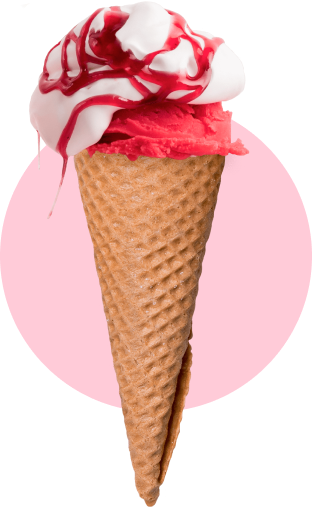
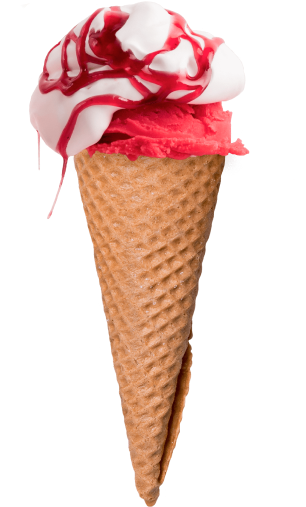
+

diff --git a/styles/style.css b/styles/style.css
@@ -220,8 +220,20 @@ body {
 }
 
 .card-img {
-  opacity: 0.4;
+  background-image: url("../images/png/Подложка.png");
+  background-repeat: no-repeat;
+  background-position: center;
+  border-radius: 50%;
+  background-size: 100%;
 }
+
+.card-img-current {
+  background-image: url("../images/png/Подложка.png");
+  background-repeat: no-repeat;
+  background-position: center;
+}
+
+
 
 .card-img.card-img-current{
   opacity: 1;
